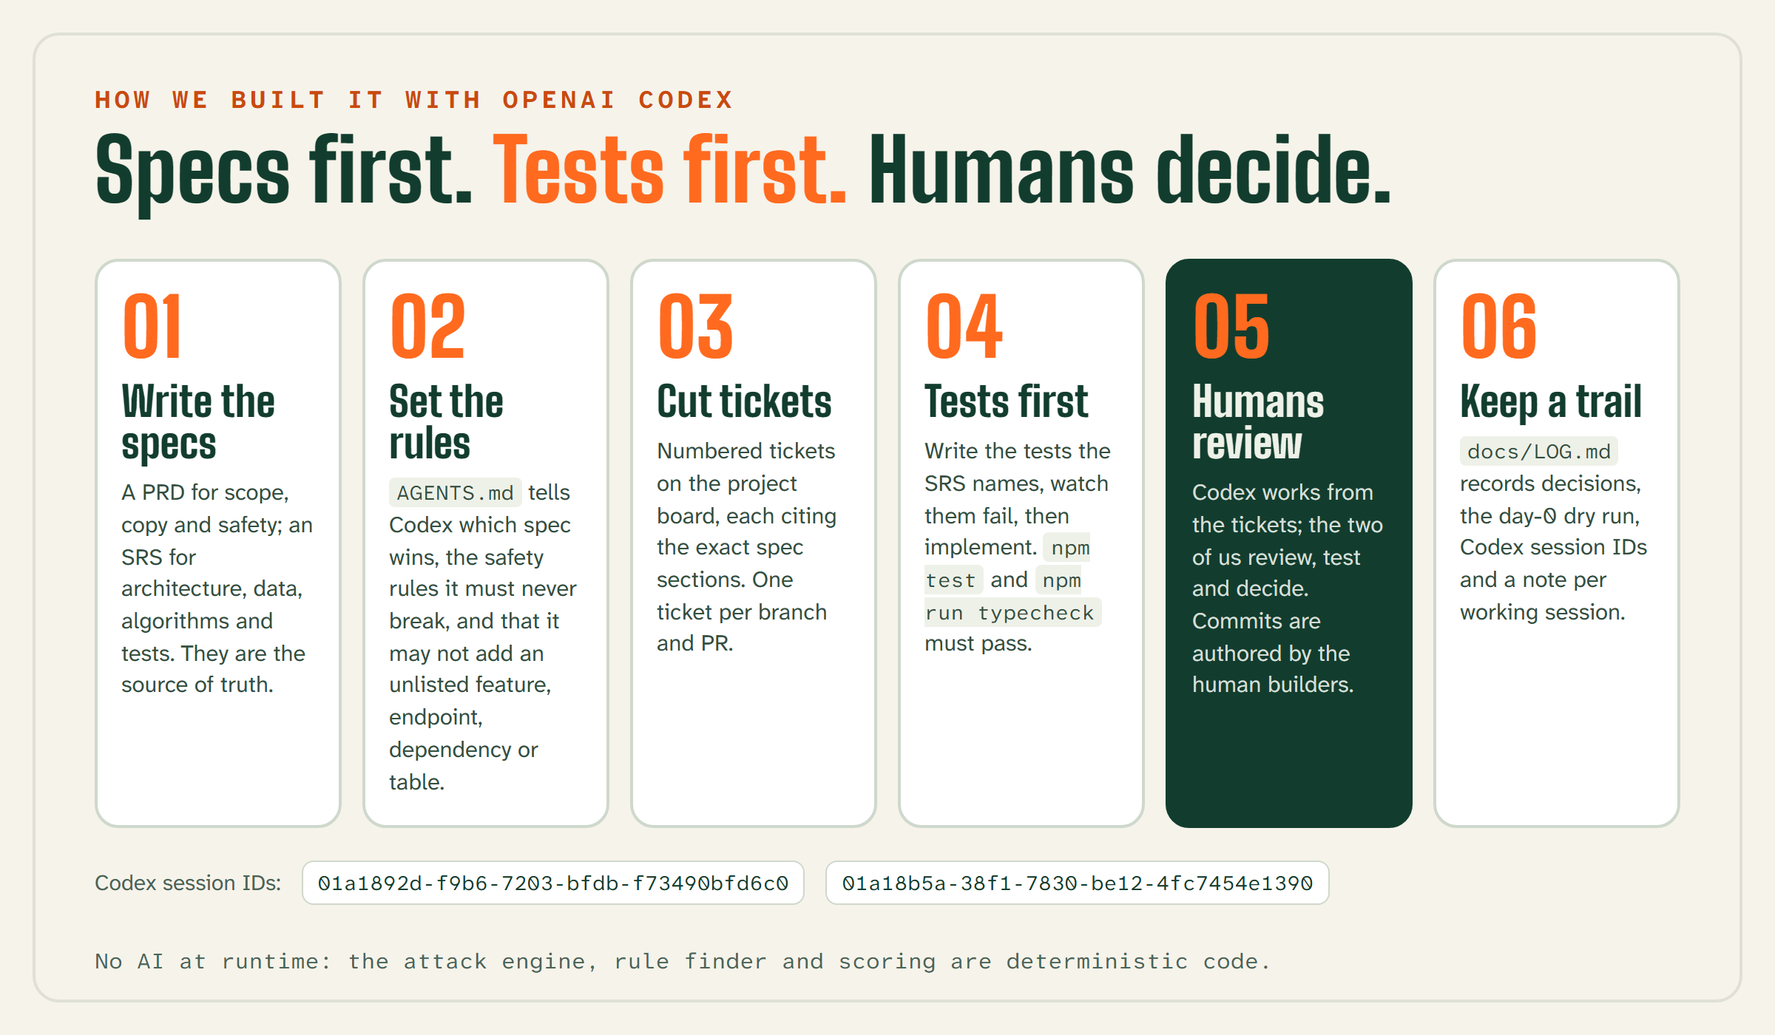
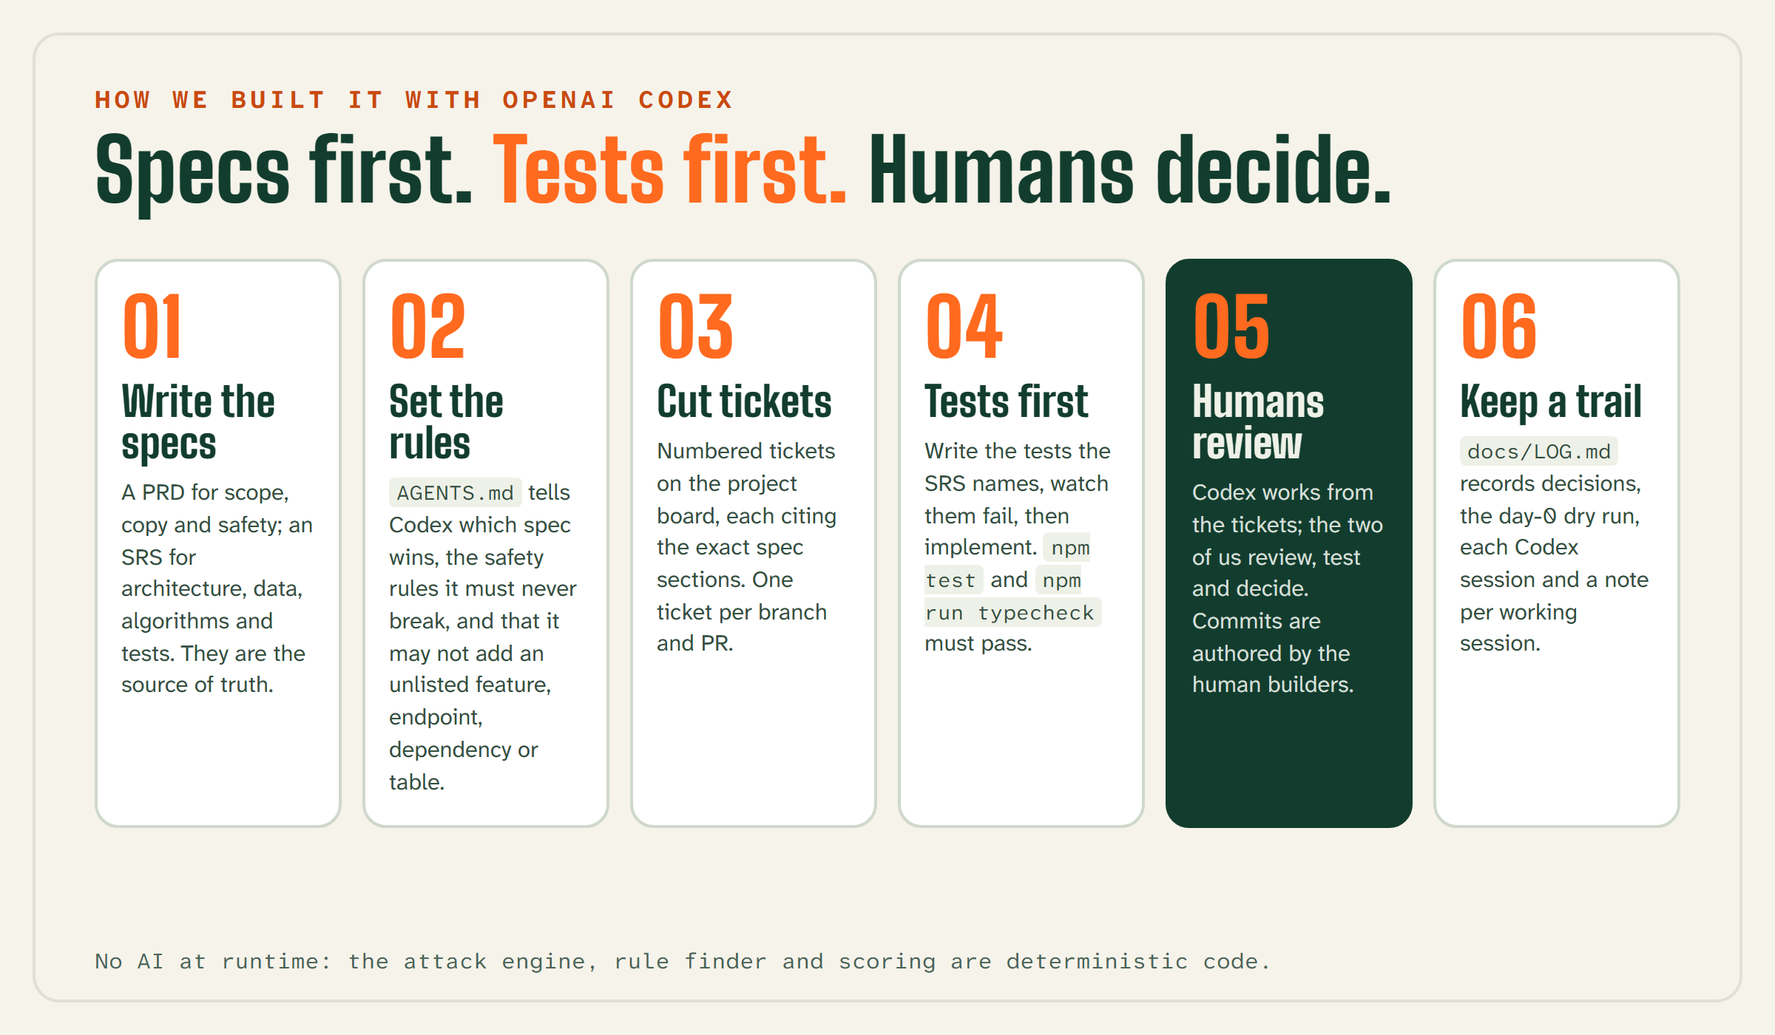
docs: tighten the Devpost story and drop session IDs from the Codex card

Changed region(s): [[0.0625, 0.8293, 0.75, 0.86], [0.8125, 0.5221, 0.9375, 0.645]]

diff --git a/docs/assets/devpost/src/cards.html b/docs/assets/devpost/src/cards.html
@@ -331,11 +331,7 @@ h2.disp { font-size: 58px; margin-top: 10px; }
     <div class="st"><div class="n">03</div><h4>Cut tickets</h4><p>Numbered tickets on the project board, each citing the exact spec sections. One ticket per branch and PR.</p></div>
     <div class="st"><div class="n">04</div><h4>Tests first</h4><p>Write the tests the SRS names, watch them fail, then implement. <code>npm test</code> and <code>npm run typecheck</code> must pass.</p></div>
     <div class="st hum"><div class="n">05</div><h4>Humans review</h4><p>Codex works from the tickets; the two of us review, test and decide. Commits are authored by the human builders.</p></div>
-    <div class="st"><div class="n">06</div><h4>Keep a trail</h4><p><code>docs/LOG.md</code> records decisions, the day-0 dry run, Codex session IDs and a note per working session.</p></div>
-  </div>
-  <div class="sess">Codex session IDs:
-    <span class="mono">01a1892d-f9b6-7203-bfdb-f73490bfd6c0</span>
-    <span class="mono">01a18b5a-38f1-7830-be12-4fc7454e1390</span>
+    <div class="st"><div class="n">06</div><h4>Keep a trail</h4><p><code>docs/LOG.md</code> records decisions, the day-0 dry run, each Codex session and a note per working session.</p></div>
   </div>
   <div class="foot" style="bottom:40px">No AI at runtime: the attack engine, rule finder and scoring are deterministic code.</div>
 </section>

diff --git a/docs/assets/devpost/STORY.md b/docs/assets/devpost/STORY.md
@@ -2,18 +2,9 @@
 
 ## Your mods have never practised a raid. Now they can.
 
-![A practice chat filling with spam while the scoreboard counts what was caught and what slipped](https://raw.githubusercontent.com/harshbhx/modscrim/devpost-media/docs/assets/devpost/hero.png)
-
 **ModScrim runs fire drills for a Twitch channel's moderators.** A private practice chat floods with spam built to slip past *this channel's own* blocked terms. The mods race to clear it. Then Twitch grades the filters, a rule finder proposes the blocked terms that close the gaps, the terms are proven on a fresh wave of spam they have never seen, and the streamer pushes them with one click and can undo with another.
 
-> **Try it in 60 seconds, no account needed:** [app.modscrim.dualmindlab.tech/demo](https://app.modscrim.dualmindlab.tech/demo)
-> The demo sends nothing to Twitch.
->
-> **Watch the video:** [youtube.com/watch?v=r7xsUjA51F0](https://www.youtube.com/watch?v=r7xsUjA51F0)
-
-**In the demo:** start a drill, clear lines with **D** (delete), **T** (timeout) and **B** (ban), then follow the console through the grade, the proposed terms and the fresh-wave proof. Approve the terms, undo them, and open the overlay to see what viewers would see: blurred bars, never readable attacks.
-
----
+Anyone can run a full drill in about a minute in the [no-account demo](https://app.modscrim.dualmindlab.tech/demo). It sends nothing to Twitch.
 
 ## The problem
 
@@ -21,163 +12,59 @@
 
 Twitch mod teams are volunteers, and **the only practice most of them get is a real raid**, with real harm and an audience watching. Streamers tune their filters by guesswork: a new blocked term might ban a regular, and nobody can see that risk until the term is live.
 
-- **Mods learn on the job.** In a survey of **1,053 Twitch moderators**, about 12% had trained another mod in the past month, and 26% had handled a targeted attack in that month. Mods learn mostly from streamers (76%) and other mods (69%), more than from Twitch's tutorials (49%). ([Seering and Kairam, 2023](https://joseph.seering.org/papers/Seering_and_Kairam_2023_Who_Moderates_Twitch_What_Do_They_Do.pdf))
-- **Filters leak, and they leak both ways.** An audit of AutoMod let through **up to 94% of hateful messages** on some test sets and blocked up to 89.5% of harmless messages that used sensitive words. Spacing and punctuation changes lowered what it caught. ([arXiv 2506.07667](https://arxiv.org/abs/2506.07667))
-
-A blocked term matches words. Spam does not play fair. ModScrim lets a team find that out in a drill, not in a raid.
-
----
+- **Mods learn on the job.** In a survey of 1,053 Twitch moderators, about 12% had trained another mod in the past month. Mods learn mostly from streamers (76%) and other mods (69%), more than from Twitch's tutorials (49%). (Seering and Kairam, 2023)
+- **Filters leak both ways.** An audit of AutoMod let through up to 94% of hateful messages on some test sets and blocked up to 89.5% of harmless messages that used sensitive words; spacing and punctuation changes lowered what it caught. (arXiv 2506.07667)
 
 ## How it works: Drill, Grade, Fix
 
 ![Drill, Grade, Fix: the seven steps of a drill](https://raw.githubusercontent.com/harshbhx/modscrim/devpost-media/docs/assets/devpost/drill-grade-fix.png)
 
-### Drill
+**Drill.** ModScrim reads the channel's public blocked terms and AutoMod levels. The streamer picks tactics, speed and a slip window, and shares a mod link with a six-digit code. The practice chat fills with attacks aimed at those filters, mixed with harmless banter. Mods delete, time out or ban from any device (**D**, **T**, **B** on the keyboard); the first action wins, and a line nobody touches slips through.
 
-1. **Read your filters.** ModScrim reads the channel's public blocked terms and AutoMod levels from Twitch and starts a 7-day chat log used for one thing: checking that new rules will not ban regulars.
-2. **Set up the drill.** Pick tactics, the number of attack and banter lines, the speed and the slip window. Share the mod link and six-digit join code, and add the overlay to OBS as a browser source.
-3. **Run the drill.** The practice chat fills with attacks written to slip past the channel's filters, mixed with harmless banter. Mods delete, time out or ban from any device. The first action wins; a line nobody touches within the slip window slips through.
+**Grade.** Every attack line goes to Twitch's Check AutoMod Status, so the score comes from Twitch, not from us. A rule finder then proposes up to six blocked terms that catch what got past, and rejects any term that would match the last 7 days of real chat or a harmless banter line.
 
-![The mod view: lines arrive and the moderator clears them with the delete, timeout and ban keys](https://raw.githubusercontent.com/harshbhx/modscrim/main/docs/assets/gifs/mod-view.gif)
+**Fix.** The terms are tested on a fresh wave of 30 attacks, built from a new seed with tricks the rule finder never saw. Push stays disabled unless real-chat matches are zero. The streamer approves, ModScrim adds the terms on Twitch, and Undo removes exactly the terms that drill added.
 
-### Grade
-
-4. **Twitch grades your filters.** Every attack line goes to Twitch's **Check AutoMod Status**. When the channel's hourly limit runs out, ModScrim falls back to its own matcher and labels every number "local estimate".
-5. **Find better rules.** The rule finder proposes **up to six** blocked terms that catch what got past. A term that would match the last 7 days of real chat, or a harmless banter line, is rejected and shown with the line it would have hit.
-
-### Fix
-
-6. **Prove them on a fresh wave.** A second wave of **30 attacks**, built from a new seed and with tricks the rule finder never saw, shows how many are blocked before and after. **Push stays disabled unless real-chat matches are zero.**
-7. **Approve, push and undo.** The streamer approves the terms, ModScrim adds them to the channel's blocked terms on Twitch, and one click removes exactly the terms that drill added.
-
-![The end of a drill: the fresh-wave proof, Approve and push, the after-action report, then Undo](https://raw.githubusercontent.com/harshbhx/modscrim/main/docs/assets/gifs/end.gif)
-
----
-
-## What makes it different
-
-![Aimed at your filters, graded by Twitch, proven on unseen spam, safe for regulars, reversible, replayable](https://raw.githubusercontent.com/harshbhx/modscrim/devpost-media/docs/assets/devpost/what-makes-it-different.png)
-
-- **It trains people and tunes filters in the same loop.** The drill is fake and contained; the grading, the proposed rules and the false-ban check use the channel's real filters and real chat.
-- **The attacks are aimed, not random.** The engine rewrites scam, spam and bot lines with spacing, dotted letters, number swaps, stretched letters, look-alike letters, emoji inside words and zero-width characters, so they get past *your* list.
-- **A rule has to earn its place.** It must catch held-out spam it was not trained on and match zero lines of the channel's real chat before the push button unlocks.
-- **It is honest about what a blocked term cannot do.** Spaced or dotted letters, zero-width characters and look-alike letters cannot be expressed as blocked terms, so ModScrim labels those "needs a bot rule" instead of pretending.
-- **It is not a moderation bot.** It never acts on real chat.
-
----
+**What makes it different:** live bots and AutoMod act *during* a raid. ModScrim is the rehearsal and the filter test that come *before* it, and it never acts on real chat.
 
 ## How it uses Twitch
 
 ![The Twitch calls ModScrim makes: read, grade, write with approval, listen](https://raw.githubusercontent.com/harshbhx/modscrim/devpost-media/docs/assets/devpost/twitch.png)
 
-| Job | Twitch API |
-|---|---|
-| **Sign in** | OAuth authorization code flow, token refresh, hourly `/oauth2/validate` |
-| **Read the setup** | Get Blocked Terms, Get AutoMod Settings, Get Users, Get Moderators |
-| **Grade** | Check AutoMod Status (`POST /helix/moderation/enforcements/status`), paced per channel |
-| **Push and undo** | Add Blocked Term (one at a time, IDs stored), Remove Blocked Term |
-| **Listen** | EventSub webhooks: `channel.chat.message` for the 7-day log, `user.authorization.revoke` |
-
-**Grading respects Twitch's limits.** Check AutoMod Status has a per-channel limit of 5 a minute and 50 an hour for normal channels, 10 and 100 for affiliates, and 30 and 300 for partners. ModScrim paces against those limits, reads `Ratelimit-*` headers, and after repeated 429s grades the rest locally and says so on screen.
-
-**Webhooks are verified before they are read.** The HMAC-SHA256 signature is checked on the raw body with a constant-time compare before any `JSON.parse`, and stale timestamps are rejected.
-
-**AutoMod is read-only.** ModScrim never calls Twitch's AutoMod settings update endpoint.
-
-![The streamer console on a demo room, showing the six screens and the status strip](https://raw.githubusercontent.com/harshbhx/modscrim/main/docs/assets/screenshots/console.png)
-
----
+- **Sign in** with Twitch OAuth; tokens are sealed and never leave the server.
+- **Read** blocked terms and AutoMod settings. AutoMod is read-only: we never call its update endpoint.
+- **Grade** with Check AutoMod Status, paced to Twitch's per-channel limits. If Twitch keeps refusing, the rest is graded locally and labelled "local estimate".
+- **Push and undo** with Add and Remove Blocked Term, only after the streamer approves.
+- **Listen** through EventSub webhooks for the 7-day chat log, with every signature checked before the body is read.
 
 ## How it runs on Cloudflare
 
 ![Architecture: clients, one Cloudflare Worker with the ChannelRoom Durable Object, D1, Queue and R2, and Twitch OAuth, Helix and EventSub](https://raw.githubusercontent.com/harshbhx/modscrim/devpost-media/docs/assets/devpost/architecture.png)
 
-**One Worker, one room per channel.** A single Cloudflare Worker serves the Hono API and the React app. Each channel gets one **`ChannelRoom` Durable Object** with its own SQLite database, which owns everything about that channel:
-
-- **The drill clock.** Durable Objects get one alarm each, so every job runs through a `schedule` table behind that single alarm. Alarms can fire more than once, so every job is idempotent.
-- **Live sockets.** The console, mods and the OBS overlay connect over hibernating WebSockets, routed by role.
-- **Atomic state.** Changes run inside `transactionSync`, so two mods hitting the same line at once still give one winner.
-- **Small global data in D1:** users, sealed tokens (AES-256-GCM) and the audit log.
-- **Reports** go through a Queue to R2 in production. Both are optional bindings, so the core product deploys without them.
-
-**No paid AI at runtime.** The attack engine, rule finder and scoring are deterministic TypeScript in `@mfd/core`, a pure, seeded package that runs unchanged in Node, browsers and `workerd`.
-
----
+One Worker serves the API and the React app. Each channel gets one **Durable Object** with its own SQLite database that owns the drill clock, the live WebSockets for the console, the mods and the OBS overlay, the chat log, the grades and the reports. D1 holds users and sealed tokens. The attack engine, rule finder and scoring are deterministic TypeScript: **no AI runs at runtime**, and the same seed always builds the same drill.
 
 ## How we built it with OpenAI Codex
 
 ![Specs first, rules in AGENTS.md, tickets, tests first, human review, a written log](https://raw.githubusercontent.com/harshbhx/modscrim/devpost-media/docs/assets/devpost/built-with-codex.png)
 
-We treated Codex as a teammate that needs a precise brief, so we wrote the brief first.
-
-- **Specs first.** A PRD sets scope, copy and safety; an SRS sets the architecture, data, interfaces, algorithms and tests. Both are the source of truth.
-- **Rules for the agent.** `AGENTS.md` tells Codex which spec wins when they disagree, the safety rules it must never break, and that it may not add a feature, endpoint, dependency or table the specs do not list. When something is unclear it writes a `TODO(question)` and stops.
-- **Tickets, tests first.** Work is split into numbered tickets on the project board. Codex writes the tests the SRS names, watches them fail, then implements; `npm test` and `npm run typecheck` must pass.
-- **Humans review and decide.** We review, test and decide. Commits are authored by the human builders.
-- **A written trail.** `docs/LOG.md` records decisions, the day-0 dry run, Codex sessions and a note per working session, with its test evidence.
-
-**Codex session IDs:** `01a1892d-f9b6-7203-bfdb-f73490bfd6c0` (Harsh) and `01a18b5a-38f1-7830-be12-4fc7454e1390` (Dhairya).
-
-![Four days. 119 tests. Rules first. 19 engine tests and 100 Worker tests](https://raw.githubusercontent.com/harshbhx/modscrim/devpost-media/docs/assets/devpost/tests-119.png)
-
-**`npm test` runs 119 tests:** 19 engine tests in Node and 100 Worker tests inside `workerd`, Durable Object included. On top of that, 18 Playwright spec files cover the app's surfaces, accessibility, the safety rules and the full demo loop, and CI adds a contrast gate, typecheck and a 250 KiB budget for initial JavaScript.
-
----
+We treated Codex as a teammate that needs a precise brief, so we wrote the brief first. A PRD and an SRS are the source of truth, and `AGENTS.md` tells Codex which spec wins, which safety rules it must never break, and that it may not add anything the specs do not list. Work was split into numbered tickets; Codex wrote the tests first, watched them fail, then implemented. We reviewed, tested and decided, and `docs/LOG.md` keeps the trail. Today `npm test` runs 119 tests, and Playwright runs the full demo loop and the safety checks against the live app.
 
 ## Safety
 
 ![Eight safety promises, each enforced in code](https://raw.githubusercontent.com/harshbhx/modscrim/devpost-media/docs/assets/devpost/safety-promises.png)
 
-A fire drill should have no fire. Each of these is enforced in code and covered by tests:
+A fire drill should have no fire. Attack lines are never posted to Twitch chat. Every generated link ends in `.invalid`, and slurs exist only as placeholders drawn as blocks. Viewers on stream see the practice chat as blurred bars, never readable attacks. Nothing reaches Twitch without the streamer's approval, and every push can be undone.
 
-- **Practice chat only.** Attack lines are never sent to Twitch chat.
-- **Obviously fake.** Every generated link ends in `.invalid`. Slurs exist only as the placeholders `slurx` and `slury`, drawn as solid blocks; no real slur list is in the repository.
-- **Viewers see nothing readable.** Overlay sockets receive only `{ lineId, user, len }` per line. A Worker test checks every overlay frame of a full drill.
-- **The streamer decides.** No blocked term reaches Twitch without approval, and undo removes only the terms that drill added.
-- **Demo rooms stay local** and never call Twitch, D1, R2 or the queue.
-- **Data is minimal.** Public chat is kept 7 days for the false-ban check, can be paused or deleted, and is removed on sign-out.
+## Challenges and what we learned
 
-![The redacted OBS overlay: an alarm bar, a scoreboard and chat drawn as blurred bars](https://raw.githubusercontent.com/harshbhx/modscrim/main/docs/assets/gifs/overlay.gif)
-
----
-
-## Design
-
-**It looks like a training ground, not a dashboard.** The brand borrows from ballpark scoreboards, coaches' tactics boards and the referee's whistle: wall green, chalk and one whistle-orange action colour. Type is **Big Shoulders** for scoreboard numbers and **Atkinson Hyperlegible Next and Mono** for everything you have to read fast. A contrast gate in CI checks the colour tokens.
-
-- **The mod view works from 360 px wide**, with keyboard shortcuts on the focused line.
-- **Every grade names its engine:** "graded by Twitch" or "local estimate".
-- **The share card is numbers only**: no chat text, no attack text.
-
-![The share card: numbers only, no chat (demo, local estimate)](https://raw.githubusercontent.com/harshbhx/modscrim/main/docs/assets/gifs/share-card.gif)
-
-*Numbers in the share card above come from a demo room: demo, local estimate.*
-
----
-
-## Challenges
-
-- **Twitch said "slow down" while our counter said "go".** In production, Check AutoMod Status answered 429 for a channel while our quota counter still showed room, and the console sat on "0 of 14 checked". The cause: we sent a whole phase in one request, and Twitch counts the limit per line. We now pace requests a few lines a minute, count 429s per phase, fall back to a labelled local estimate after three in a row, and tell the streamer what is happening. On our own channel the next drill graded 14 of 14 lines with Twitch.
-- **One alarm per Durable Object.** A drill needs a line clock, grading ticks, report jobs and clean-up. We multiplexed them all through one `schedule` table and made every job safe to run twice.
-- **Redaction had to be structural.** "Do not show attack text on stream" is easy to break by accident, so the overlay message schema is strict and anything readable fails to build.
-- **Proving a rule without overfitting it.** Testing proposed terms on the same lines they were learned from would flatter them, so the proof uses a held-out wave with a different seed and different tricks.
-
-## What we learned
-
-- **Specs are the best prompt.** A precise PRD, SRS and `AGENTS.md` kept Codex inside scope and made every review a check against a written rule.
-- **Tests first pays off most for safety rules.** Redaction, `.invalid` links and undo are things you want proven, not remembered.
-- **Honest labels build trust.** Saying "local estimate" or "needs a bot rule" is more useful to a streamer than a confident wrong number.
+- **Twitch said "slow down" while our counter said "go".** Grading once sat at "0 of 14" because we sent a whole phase in one request and Twitch counts its limit per line. We now pace a few lines a minute and fall back to a labelled estimate when Twitch refuses; on our own channel the next drill graded 14 of 14 lines with Twitch.
+- **One alarm per Durable Object.** A drill needs a line clock, grading, reports and clean-up, so every job runs through one schedule table and is safe to run twice.
+- **Specs are the best prompt.** Clear rules kept Codex in scope and turned every review into a check against something written down.
+- **Honest labels build trust.** "Local estimate" and "needs a bot rule" are more useful to a streamer than a confident wrong number.
 
 ## Honest scope
 
-- **Twitch grading works on a real channel:** a drill on our own channel was graded 14 of 14 lines by Twitch.
-- **The full day-0 validation is not complete.** The run that measures Twitch's matching against our local engine on a test channel has not been recorded, so **we make no claim of measured improvement on a real channel.** The only recorded improvement numbers come from a fixture-only dry run.
-- **Demo grading is a local estimate**, not a Twitch grade.
-- **Only public blocked terms are visible.** Twitch does not return private terms to apps.
-- **Two engines can disagree.** Twitch also applies AutoMod categories and permitted terms, which the local matcher does not model.
-- **Some tricks need a bot.** Blocked terms cannot express spaced or dotted letters, zero-width characters, emoji inside a word or look-alike letters; ModScrim labels those "needs a bot rule".
-
----
+Demo rooms are fully simulated and grade with a local estimate. Twitch only shares a channel's public blocked terms. Some tricks, like spaced letters or zero-width characters, cannot be written as blocked terms, so ModScrim marks them "needs a bot rule". We have not yet run the full measurement on a test channel, so we make no claim of measured improvement on a real channel.
 
 ## Practise the raid before it is real
 
@@ -185,15 +72,6 @@ A fire drill should have no fire. Each of these is enforced in code and covered 
 
 Your mods should not meet their first raid live on stream. With ModScrim they meet it in a practice chat nobody else can see, Twitch tells you which filters held, and the fix is proven, approved and one click from undone.
 
-![Practise the raid before it is real: links to the demo, the website and the repository](https://raw.githubusercontent.com/harshbhx/modscrim/devpost-media/docs/assets/devpost/outro.png)
-
-- **Live demo, no account:** [app.modscrim.dualmindlab.tech/demo](https://app.modscrim.dualmindlab.tech/demo)
-- **Video:** [youtube.com/watch?v=r7xsUjA51F0](https://www.youtube.com/watch?v=r7xsUjA51F0)
-- **Code (MIT):** [github.com/harshbhx/modscrim](https://github.com/harshbhx/modscrim)
-- **Website:** [modscrim.dualmindlab.tech](https://modscrim.dualmindlab.tech)
-
-**Built by Harsh Bhanushali** (Cloudflare: Worker, Durable Objects, D1, Queues, R2, deploy, and the website) **and Dhairya Patel** (the core engine, the Twitch integration, the web app, all testing, CI and the launch), with OpenAI Codex, for the Codex x TwitchCon hackathon, 2026.
-
-ModScrim is an independent project and is not affiliated with or endorsed by Twitch.
+Built by **Harsh Bhanushali** and **Dhairya Patel** with OpenAI Codex. ModScrim is an independent project and is not affiliated with or endorsed by Twitch.
 
 **Blow the whistle before the raiders do.**
